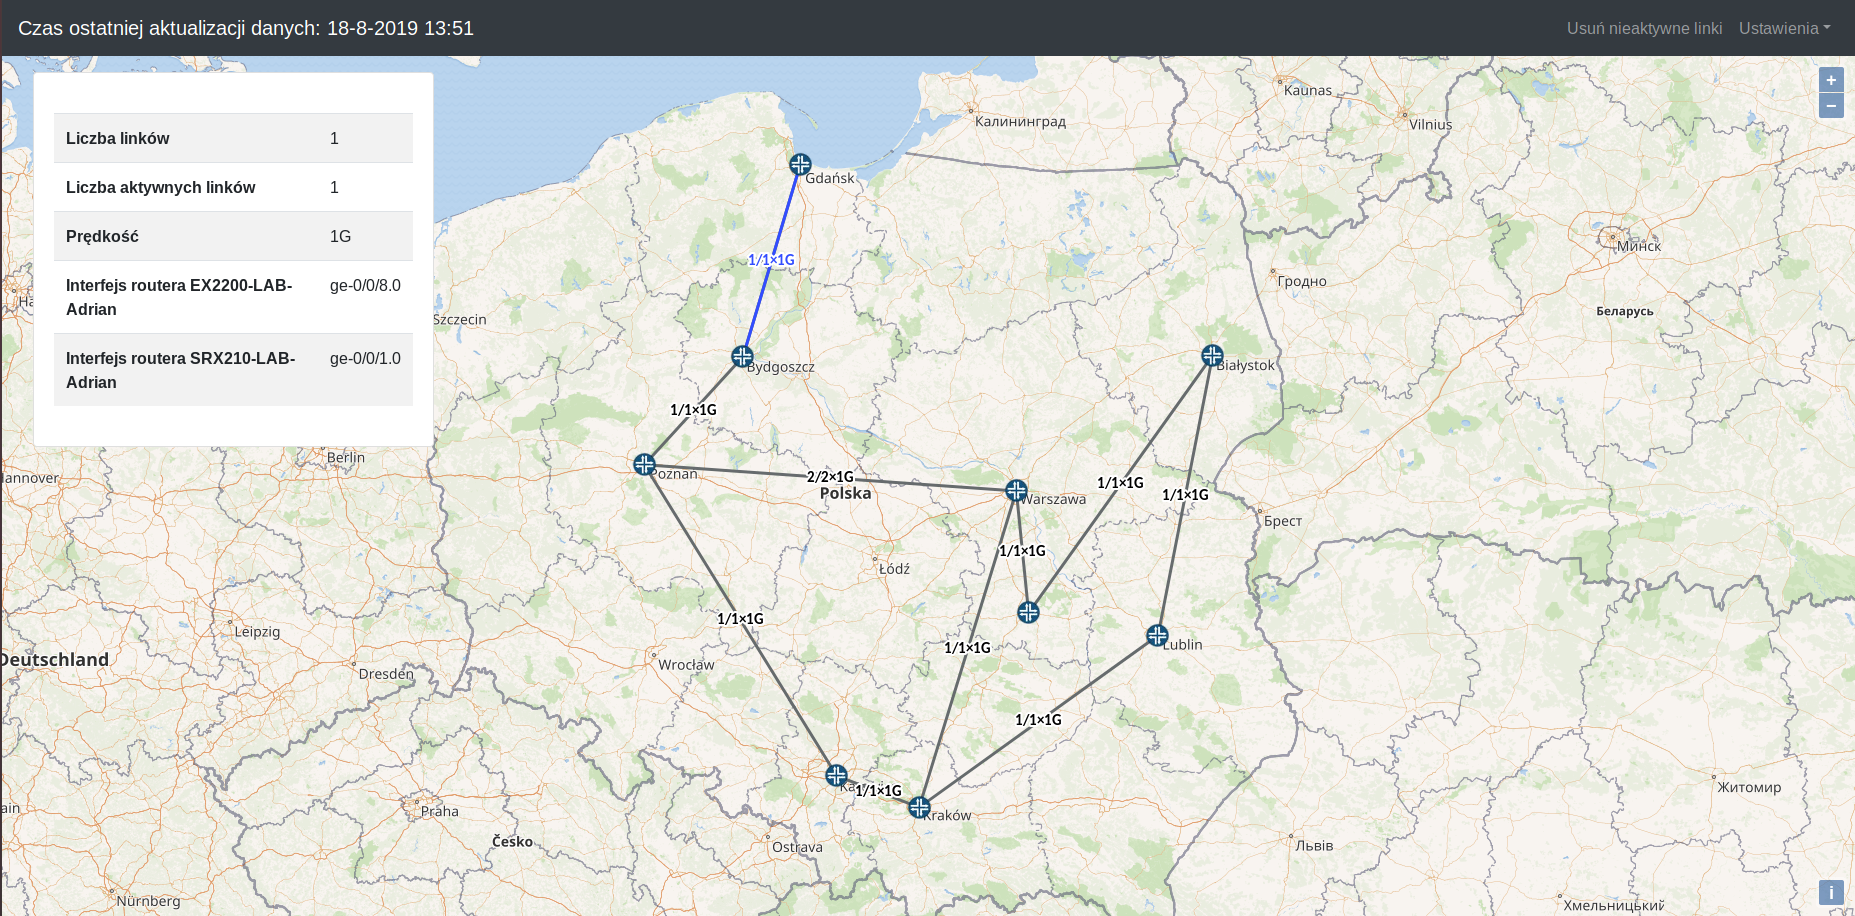
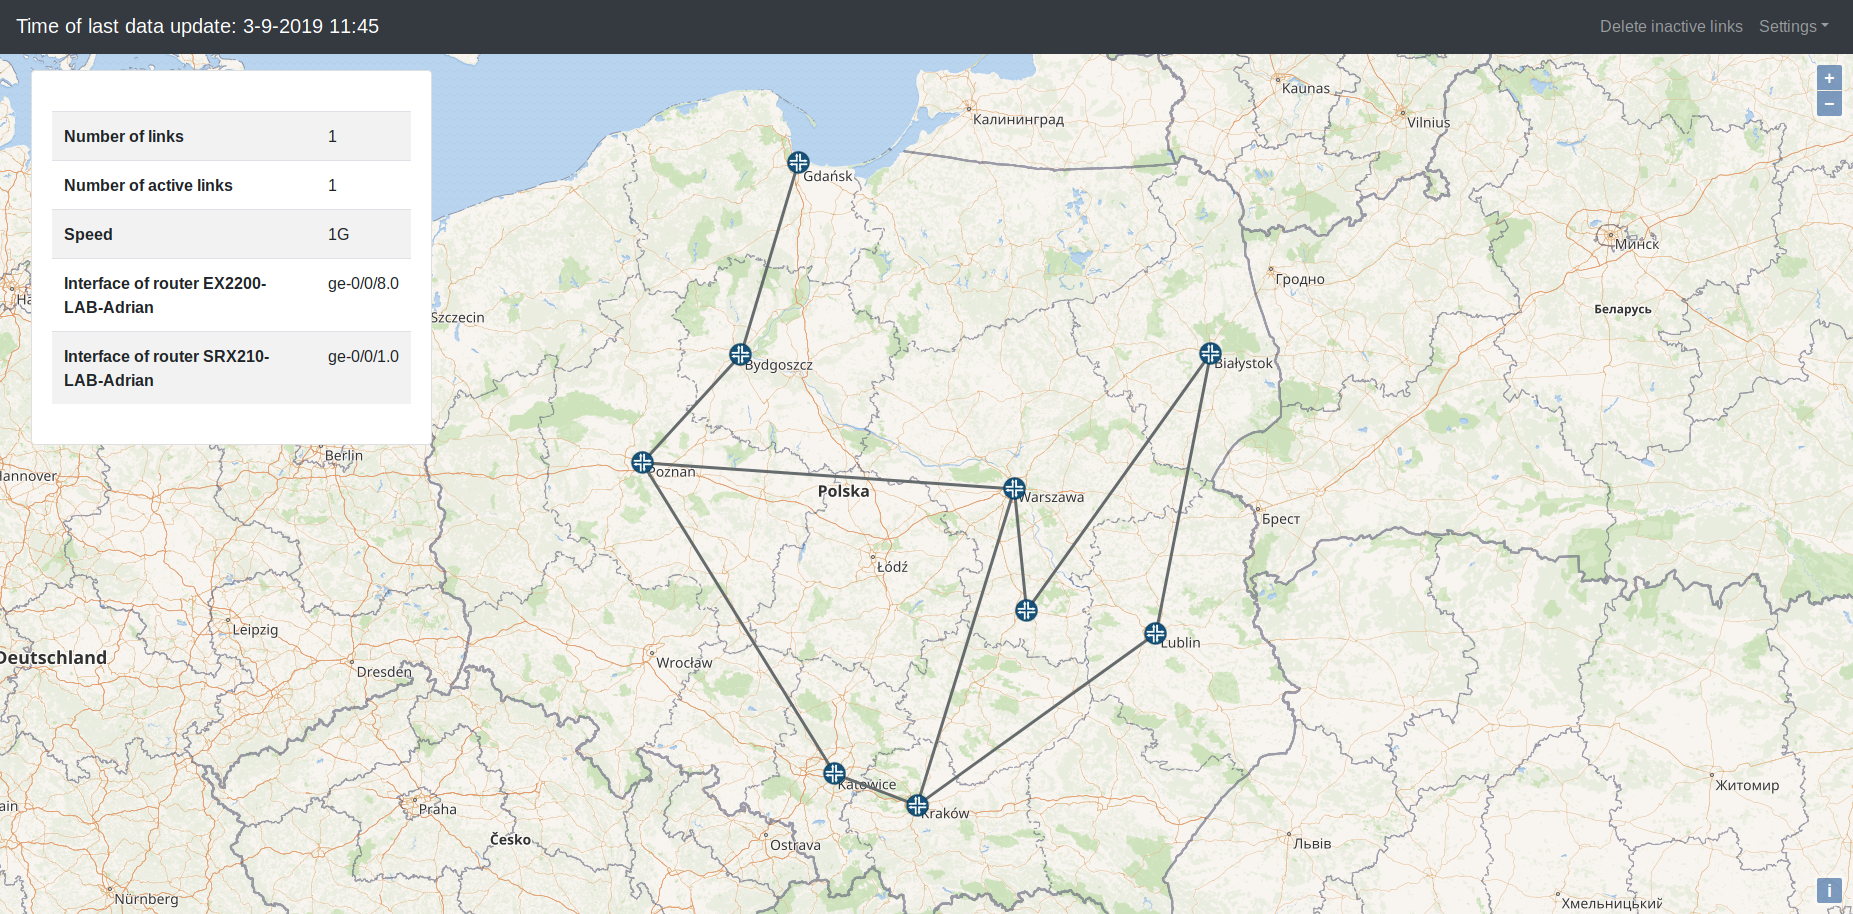
Change interface language to English (#2)
* Change interface language to English
* Update screenshot

diff --git a/router-map/static/js/index.js b/router-map/static/js/index.js
@@ -53,7 +53,7 @@ $.ajax({
     type: "get",
     success: function (data) {
         if (!data) {
-            $('#data').text('Brak informacji o ostatniej aktualizacji danych');
+            $('#data').text('No information about last data update');
         } else {
             var date = new Date(data * 1000);
             var year = date.getFullYear();
@@ -62,7 +62,7 @@ $.ajax({
             var hours = date.getHours();
             var minutes = "0" + date.getMinutes();
             var convDataTime = day + '-' + month + '-' + year + ' ' + hours + ':' + minutes.substr(-2);
-            $('#data').text('Czas ostatniej aktualizacji danych: ' + convDataTime);
+            $('#data').text('Time of last data update: ' + convDataTime);
         }
     }
 });
@@ -231,13 +231,13 @@ function show_device_info(device) {
         success: function (response) {
             card.append($('<table class="table table-striped">').append(
                 [$('<tr>')
-                    .append($('<td>').append($('<b>').append("Nazwa")))
+                    .append($('<td>').append($('<b>').append("Name")))
                     .append($('<td>').append(response.name)),
                     $('<tr>')
-                        .append($('<td>').append($('<b>').append("Adres IP")))
+                        .append($('<td>').append($('<b>').append("IP address")))
                         .append($('<td>').append(response.ip_address)),
                     $('<tr>')
-                        .append($('<td>').append($('<b>').append("Połączenie SNMP")))
+                        .append($('<td>').append($('<b>').append("SNMP connection")))
                         .append($('<td>').append(response.snmp_connection))
                 ]));
         }
@@ -258,19 +258,19 @@ function show_connection_info(device1, device2) {
             for (i in response) {
                 card.append($('<table class="table table-striped">').append(
                     [$('<tr>')
-                        .append($('<td>').append($('<b>').append("Liczba linków")))
+                        .append($('<td>').append($('<b>').append("Number of links")))
                         .append($('<td>').append(response[i].number_of_links)),
                         $('<tr>')
-                            .append($('<td>').append($('<b>').append("Liczba aktywnych linków")))
+                            .append($('<td>').append($('<b>').append("Number of active links")))
                             .append($('<td>').append(response[i].number_of_active_links)),
                         $('<tr>')
-                            .append($('<td>').append($('<b>').append("Prędkość")))
+                            .append($('<td>').append($('<b>').append("Speed")))
                             .append($('<td>').append(response[i].speed + 'G')),
                         $('<tr>')
-                            .append($('<td>').append($('<b>').append('Interfejs routera ' + response[i].device1)))
+                            .append($('<td>').append($('<b>').append('Interface of router ' + response[i].device1)))
                             .append($('<td>').append(response[i].interface1)),
                         $('<tr>')
-                            .append($('<td>').append($('<b>').append('Interfejs routera ' + response[i].device2)))
+                            .append($('<td>').append($('<b>').append('Interface of router ' + response[i].device2)))
                             .append($('<td>').append(response[i].interface2)),
                     ]));
             }

diff --git a/router-map/templates/base.html b/router-map/templates/base.html
@@ -15,17 +15,17 @@
 </head>
 <body>
 <nav class="navbar navbar-expand-sm bg-dark navbar-dark">
-    <div class="navbar-brand" id="data">Czas</div>
+    <div class="navbar-brand" id="data">Time</div>
     <div class="navbar-nav ml-auto">
-        <a href=# class="nav-item nav-link" id="delete_btn">Usuń nieaktywne linki</a>
+        <a href=# class="nav-item nav-link" id="delete_btn">Delete inactive links</a>
         <a href=# class="nav-item dropdown">
             <a href=# class="nav-link dropdown-toggle" id="navbarDropdownMenuLink" data-toggle="dropdown"
-               aria-haspopup="true" aria-expanded="false">Ustawienia</a>
+               aria-haspopup="true" aria-expanded="false">Settings</a>
             <div class="dropdown-menu dropdown-menu-right">
                 <div class="form-check dropdown-item">
                     <label class="form-check-label">
                         <input type="checkbox" class="form-check-input" id="checkbox-show-label" value="">
-                        Wyświetlanie opisów połączeń
+                        Display link descriptions
                     </label>
                 </div>
             </div>

diff --git a/router-map/map/tests.py b/router-map/map/tests.py
@@ -118,7 +118,7 @@ class TestHtpResponsePoints(TestCase):
         json2 = {
             "ip_address": "1.1.1.1",
             "name": "a",
-            "snmp_connection": "aktywne",
+            "snmp_connection": "active",
         }
         response2 = self.client.get(reverse('device_info', args=[1]))
         self.assertEqual(response2.status_code, 200)
@@ -150,7 +150,7 @@ class TestHtpResponsePoints(TestCase):
         json2 = {
             "ip_address": "1.1.1.1",
             "name": "a",
-            "snmp_connection": "nieaktywne"
+            "snmp_connection": "inactive"
         }
         response2 = self.client.get(reverse('device_info', args=[1]))
         self.assertEqual(response2.status_code, 200)

diff --git a/router-map/map/views.py b/router-map/map/views.py
@@ -36,7 +36,7 @@ def device_info(request, device_pk):
     info = {
         "ip_address": dev.ip_address,
         "name": dev.name,
-        "snmp_connection": 'aktywne' if dev.snmp_connection else 'nieaktywne'
+        "snmp_connection": 'active' if dev.snmp_connection else 'inactive'
     }
     return HttpResponse(json.dumps(info), 'application/json')
 
